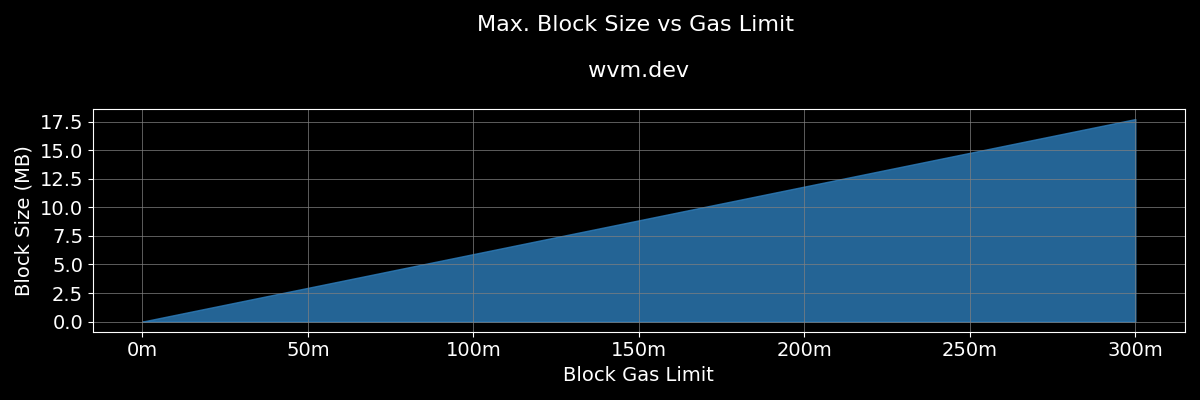
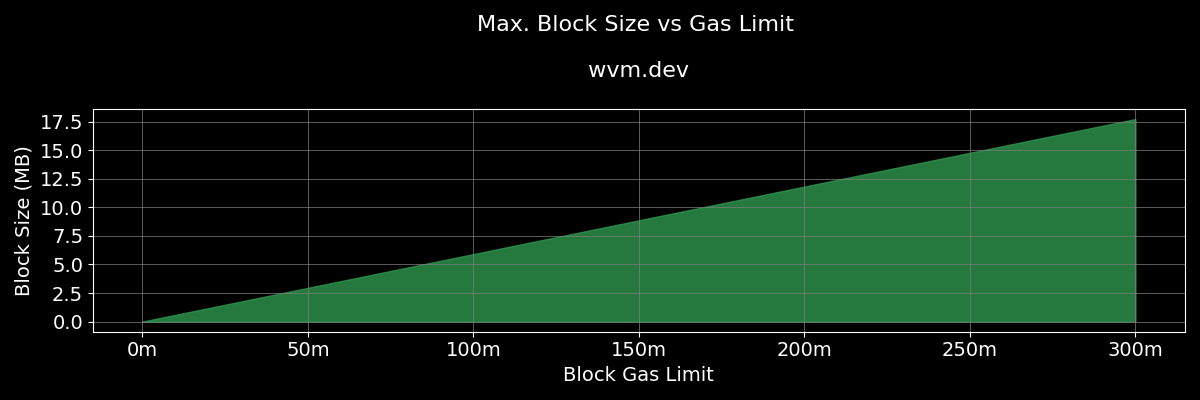
chore: update graph color to green

Changed region(s): [[0.1233, 0.3, 0.9558, 0.81]]

diff --git a/impact_block_gas_limit/impact_block_gas_limit.py b/impact_block_gas_limit/impact_block_gas_limit.py
@@ -6,6 +6,7 @@ from web3 import Web3
 import snappy
 import os 
 EXECUTION = True
+import matplotlib.cm as cm
 
 if EXECUTION:
     provider_url = 'https://testnet-rpc.wvm.dev'  # WeaveVM testnet RPC URL
@@ -124,7 +125,7 @@ def format_func(value, tick_number):
 plt.style.use('dark_background')
 x = gas_limits
 y = block_sizes
-colors = cm.Blues(0.7)
+colors = cm.Greens(0.7)
 fig, ax = plt.subplots(figsize=(12, 4))
 plt.rcParams['font.family'] = 'Ubuntu Mono'
 ax.fill_between(x, y, color=colors, alpha=0.8)
